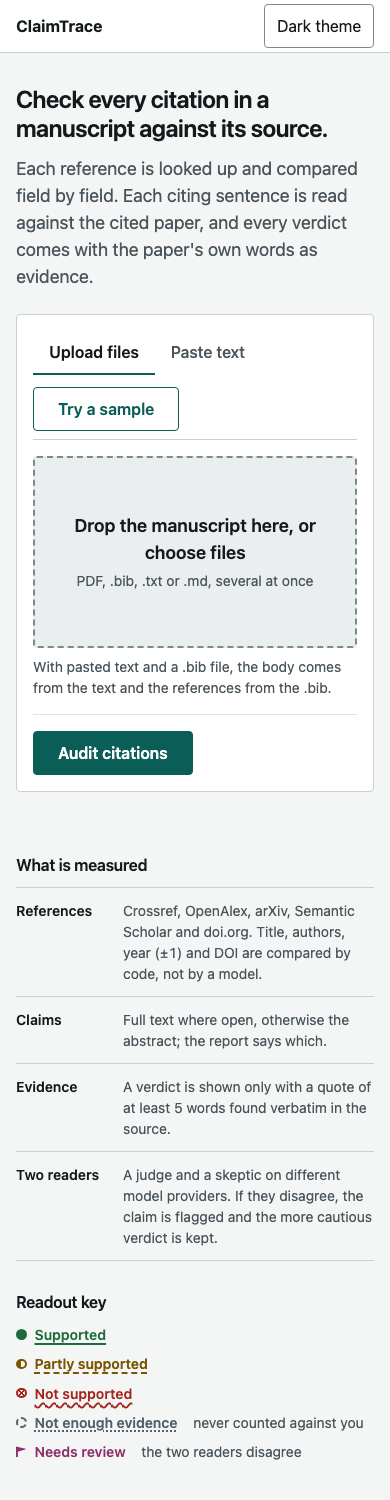
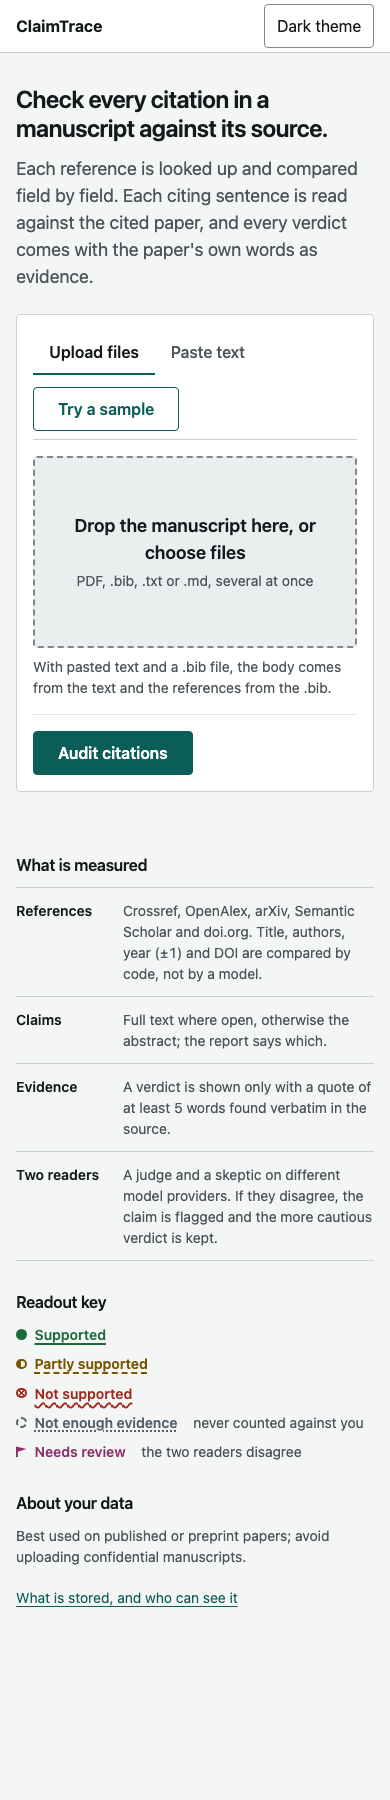
ui: honest Bench readout, About your data note, queue position and daily cap
- headline names unchecked references / not-checkable claims instead of 'No problems found'
- claims citing a not_found/retracted reference get their own red counter (never green) and sort first
- home: About your data note (stored, how long from /api/info, who can see it, advice)
- queued jobs show 'Waiting in queue — position X of Y' when the server sends it
- optional 'N of M audits used today'; 429 keeps the text and refreshes the count
- retake home-light, home-mobile (1800 px tall now), report-sample-light

diff --git a/claimtrace/web/static/app.js b/claimtrace/web/static/app.js
@@ -71,8 +71,9 @@ function mark(value, labels, label, levelOverride) {
 }
 
 const rank = (labels, value) => { const i = Object.keys(labels).indexOf(value); return i < 0 ? 0 : i; };
-// worst first: verdict/status, then needs review, then the cited reference's status
-const severity = (labels, key, x) => rank(labels, key(x)) * 100
+// worst first: a claim citing a missing/retracted reference, then verdict/status, then needs
+// review, then the cited reference's status
+const severity = (labels, key, x) => (!x.reference && refBad(x) ? -1000 : rank(labels, key(x)) * 100)
   + (x.reference ? 0 : (x.needs_review ? 0 : 10) + rank(STATUS, refStatus.get(x.ref_id) || "verified"));
 
 async function apiError(resp) {
@@ -105,6 +106,7 @@ async function submitJob(ev) {
     const resp = await fetch("/api/jobs", { method: "POST", body: form });
     if (resp.status === 429 || resp.status === 503) {
       formMessage(`${await apiError(resp)} Your text is still here; submit again when ready.`, "notice");
+      describeServer(); // the daily count may have changed
       return;
     }
     if (!resp.ok) throw new Error(await apiError(resp));
@@ -193,7 +195,10 @@ function renderStages(job) {
       label, count ? el("span", { className: "count" }, count) : null,
       el("span", { className: "sr-only" }, { done: " (done)", current: " (in progress)", todo: "" }[state]));
   }));
-  const label = job.status === "queued" ? "Queued: waiting for a free worker"
+  // queue_position / queue_length may be absent (older server): fall back to the generic line
+  const pos = Number.isInteger(job.queue_position) && job.queue_position > 0 ? job.queue_position : null;
+  const len = Number.isInteger(job.queue_length) && job.queue_length >= pos ? job.queue_length : null;
+  const label = job.status === "queued" ? (pos ? `Waiting in queue — position ${pos}${len ? ` of ${len}` : ""}` : "Queued: waiting for a free worker")
     : cur >= STAGES.length ? "Finishing" : (STAGES[cur] || [, "Working"])[1];
   for (const line of ["stage", "live-stage"]) $(line).textContent = job.total ? `${label}: ${job.done} of ${job.total}` : label;
   if (job.total) { $("bar").max = job.total; $("bar").value = job.done; } else $("bar").removeAttribute("value");
@@ -263,6 +268,9 @@ const refNote = (c) => {
 // the cited work is missing or retracted: whatever the source text said, the citation is a problem
 const refBad = (c) => ["not_found", "retracted"].includes(refStatus.get(c.ref_id));
 const refAttention = (a) => a.status !== "verified";
+// counter/filter value of a claim: one citing a missing or retracted reference is never counted
+// under its (possibly green) verdict
+const claimKey = (c) => (refBad(c) ? "badref" : c.verdict);
 const claimAttention = (c) => c.verdict === "unsupported" || c.needs_review || refBad(c);
 // partly supported, not checkable, or citing a doubtful reference: shown open, below the claims that need attention
 const claimMiddle = (c) => !claimAttention(c) && (c.verdict !== "supported" || refNote(c) !== null);
@@ -281,7 +289,7 @@ const cell = (cols, i, ...children) => el("div", { className: i === 0 ? "id" : i
 let filter = null; // "c:<verdict>", "c:review", "r:<status>" or null (show everything)
 let lastRender = null; // [report, opts] for re-rendering when a filter changes
 let fresh = new Set(); // keys that arrived in this render (briefly highlighted)
-const filterMatch = (x) => (filter === "c:review" ? !!x.needs_review : filter.slice(2) === (x.reference ? x.status : x.verdict));
+const filterMatch = (x) => (filter === "c:review" ? !!x.needs_review : filter.slice(2) === (x.reference ? x.status : claimKey(x)));
 
 function rowEl(key, ...children) {
   return el("li", { className: fresh.has(key) ? "row new" : "row" }, children);
@@ -432,11 +440,11 @@ function group(items, isProblem, labels, key, render, noun, fineNoun, isMiddle, 
 }
 
 // One counter per status present; each is a toggle button that filters its section.
-function counters(items, labels, prefix, valueOf, extra) {
+function counters(items, labels, prefix, valueOf, extras = []) {
   const n = new Map();
   for (const x of items) n.set(valueOf(x), (n.get(valueOf(x)) || 0) + 1);
   const entries = Object.keys(labels).filter((v) => n.get(v)).map((v) => [v, n.get(v), mark(v, labels, `${labels[v][0].toLowerCase()}`)]);
-  if (extra) entries.push(extra);
+  entries.push(...extras.filter(Boolean));
   return el("ul", { className: "counts", "aria-label": "Filter by status" }, entries.map(([v, count, m]) => {
     const f = `${prefix}${v}`;
     return el("li", {}, el("button", { type: "button", "data-filter": f, "data-fk": `f:${f}`, "aria-pressed": String(filter === f) },
@@ -497,6 +505,10 @@ function headline(r, pending) {
     [notSup, "claim", "not supported"],
     [review, "claim", review === 1 ? "needs review" : "need review"],
     [count(r.references, (a) => a.status === "metadata_mismatch"), "reference", "with details that differ"],
+    // not findings, but nothing was verified for them: never "No problems found" over them
+    [count(r.references, (a) => a.status === "unchecked"), "reference", "could not be checked"],
+    [count(r.claims, (c) => !c.needs_review && !refBad(c) && ["insufficient_evidence", "source_not_found"].includes(c.verdict)),
+      "claim", "could not be checked"],
   ].filter(([n]) => n).map(([n, noun, what]) => `${plural(n, noun)} ${what}`);
   const lead = pending ? "So far: " : "";
   if (!parts.length) {
@@ -567,10 +579,13 @@ function renderReport(r, opts = {}) {
   const job = opts.job || {};
   const total = (stage) => (job.stage === stage && job.total ? job.total : null);
   const review = r.claims.filter((c) => c.needs_review).length;
+  const badref = r.claims.filter(refBad).length;
+  const extraMark = (cls, word) => el("span", { className: `mark ${cls}` }, el("span", { className: "word" }, word));
   $("meters").replaceChildren(
     meter("Claims", r.claims, total("claims"), !pending,
-      counters(r.claims, VERDICT, "c:", (c) => c.verdict,
-        review ? ["review", review, el("span", { className: "mark s-review" }, el("span", { className: "word" }, "need review"))] : null),
+      counters(r.claims, VERDICT, "c:", claimKey, [
+        badref ? ["badref", badref, extraMark("s-bad", "cite a missing or retracted reference")] : null,
+        review ? ["review", review, extraMark("s-review", "need review")] : null]),
       "Counts by verdict appear when every claim is checked."),
     meter("References", r.references, total("references"), !refsPending,
       counters(r.references, STATUS, "r:", (a) => a.status), "Counts by status appear when every reference is checked."));
@@ -578,7 +593,8 @@ function renderReport(r, opts = {}) {
   $("refs-n").textContent = String(r.references.length);
   if (filter) {
     const [labels, v] = filter.startsWith("c:") ? [VERDICT, filter.slice(2)] : [STATUS, filter.slice(2)];
-    const name = v === "review" ? "needs review" : (labels[v] || [v])[0].toLowerCase();
+    const name = v === "review" ? "needs review" : v === "badref" ? "citing a missing or retracted reference"
+      : (labels[v] || [v])[0].toLowerCase();
     $("filter-note").replaceChildren(`Showing only ${filter.startsWith("c:") ? "claims" : "references"}: ${name}.`,
       el("button", { type: "button", className: "link", "data-filter": "", "data-fk": "f:" }, "Show all"));
   } else $("filter-note").replaceChildren();
@@ -683,10 +699,16 @@ function initDrop() {
 }
 
 // Retention of shareable links, from the server (no number baked into the page).
+// Every field is optional: an older server without jobs_today / daily_limit just shows less.
 async function describeServer() {
-  let n = null;
-  try { n = (await (await fetch("/api/info")).json()).max_reports; } catch (_) { /* keep generic text */ }
-  $("share-note").textContent = `Shareable link (anyone with it can view this report; ${Number.isInteger(n) ? `kept for the newest ${n} reports on this server` : "kept for a limited number of recent reports"}): `;
+  let info = {};
+  try { info = (await (await fetch("/api/info")).json()) || {}; } catch (_) { /* keep generic text */ }
+  const n = info.max_reports;
+  const kept = Number.isInteger(n) ? `kept for the newest ${n} reports on this server` : "kept for a limited number of recent reports";
+  $("share-note").textContent = `Shareable link (anyone with it can view this report; ${kept}): `;
+  $("keep-note").textContent = `How long: ${Number.isInteger(n) ? `the newest ${n} reports are kept` : "only a limited number of recent reports are kept"}; older ones are deleted.`;
+  const { jobs_today: used, daily_limit: cap } = info;
+  $("usage").textContent = Number.isInteger(used) && Number.isInteger(cap) && cap > 0 ? `${Math.min(used, cap)} of ${cap} audits used today` : "";
 }
 
 // "Try a sample" description, counted from the saved sample report itself.

diff --git a/claimtrace/web/static/index.html b/claimtrace/web/static/index.html
@@ -56,6 +56,7 @@
           <p id="form-error" class="error" role="alert"></p>
           <div class="actions">
             <button id="submit" type="submit">Audit citations</button>
+            <span id="usage" class="hint usage"></span>
           </div>
         </form>
       </div>
@@ -80,6 +81,18 @@
           <li><span class="mark s-review"><span class="word">Needs review</span></span>
             <span class="hint">the two readers disagree</span></li>
         </ul>
+        <h2 id="data-h">About your data</h2>
+        <p class="hint">Best used on published or preprint papers; avoid uploading confidential manuscripts.</p>
+        <details class="about">
+          <summary>What is stored, and who can see it</summary>
+          <ul class="hint">
+            <li>Stored: the finished report, including the manuscript's citing sentences and its
+              reference list. Uploaded files are not kept after the audit.</li>
+            <li id="keep-note">How long: only a limited number of recent reports are kept; older ones are deleted.</li>
+            <li>Who can see a report: anyone with its link.</li>
+            <li>No accounts and no IP addresses; only a count of visits per country per day.</li>
+          </ul>
+        </details>
       </aside>
     </section>
 

diff --git a/claimtrace/web/static/style.css b/claimtrace/web/static/style.css
@@ -236,6 +236,9 @@ label { display: block; font-weight: var(--font-weight-semibold); margin: 0 0 va
 .sheet dd { margin: 0; color: var(--color-text-secondary); }
 .key { list-style: none; padding: 0; margin: 0; display: grid; gap: var(--space-2); font-size: var(--font-size-sm); }
 .key .hint { margin-left: var(--space-3); }
+.about > summary { display: flex; align-items: center; min-height: var(--tap-min); cursor: pointer; font-size: var(--font-size-sm); color: var(--color-text-link); text-decoration: underline; text-underline-offset: var(--underline-offset); }
+.about ul { margin: 0; padding-left: var(--space-5); display: grid; gap: var(--space-2); }
+.usage { align-self: center; }
 
 /* ---------- status marks: word + CSS shape + colour; verdict words carry an underline style ---------- */
 .mark { display: inline-flex; align-items: center; gap: var(--space-2); font-weight: var(--font-weight-semibold); color: var(--color-status-neutral); }

diff --git a/tests/adversarial/test_web_bench_readout.py b/tests/adversarial/test_web_bench_readout.py
@@ -4,7 +4,6 @@ skipped without node."""
 
 import re
 
-import pytest
 from test_web_report_view import find, ok, ref, render_calls, text
 
 from claimtrace.core.schemas import (
@@ -26,10 +25,6 @@ def claim(cid: str, rid: str, verdict: Verdict, **kw) -> ClaimCheck:
     )
 
 
-@pytest.mark.xfail(
-    strict=True,
-    reason="BUG: headline says 'No problems found' when no reference could be checked",
-)
 def test_headline_does_not_say_no_problems_when_nothing_could_be_checked():
     # every provider rate-limited and the LLM down: nothing was verified at all
     report = Report(
@@ -48,10 +43,6 @@ def test_headline_does_not_say_no_problems_when_nothing_could_be_checked():
     assert "No problems found" not in text(out["headline"]), text(out["headline"])
 
 
-@pytest.mark.xfail(
-    strict=True,
-    reason="BUG: green 'supported' counter counts a claim whose cited reference was not found",
-)
 def test_green_supported_counter_excludes_claims_citing_a_missing_reference():
     # the only claim cites a reference no provider knows (likely fabricated); its row is moved
     # to "Needs your attention" and never shown green, but the readout counter is
@@ -81,10 +72,6 @@ def test_green_supported_counter_excludes_claims_citing_a_missing_reference():
     assert counted == 0, f"{counted} claim(s) under a green counter: {[text(b) for b in green]}"
 
 
-@pytest.mark.xfail(
-    strict=True,
-    reason="BUG: claim citing a not-found reference sorted below LLM-outage claims",
-)
 def test_claim_citing_missing_reference_is_not_sorted_below_failed_checks():
     # judge/skeptic call failed (pipeline._failed): insufficient_evidence + needs_review, which
     # the readout key calls "never counted against you"; ref 9 does not exist at all
@@ -114,3 +101,14 @@ def test_claim_citing_missing_reference_is_not_sorted_below_failed_checks():
     attention = text(out["claims"]).split("Needs your attention", 1)[1]
     order = re.findall(r"(c\d) → ref", attention)
     assert order[0] == "c4", order
+
+
+def test_queue_position_shown_while_queued_and_absent_fields_fall_back():
+    # #stage is not dumped by the harness: copy its text into #headline
+    copy = '$("headline").textContent = $("stage").textContent;'
+    out = render_calls(
+        [f'renderStages({{status: "queued", queue_position: 2, queue_length: 3}}); {copy}']
+    )
+    assert text(out["headline"]) == "Waiting in queue — position 2 of 3"
+    out = render_calls([f'renderStages({{status: "queued"}}); {copy}'])
+    assert text(out["headline"]) == "Queued: waiting for a free worker"
